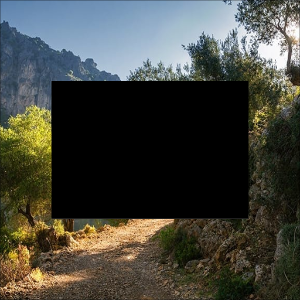
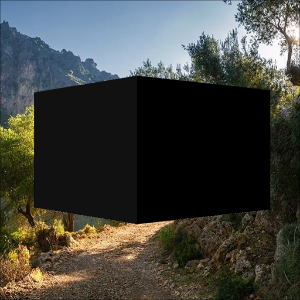
keep going

diff --git a/robotaugen/augmentation/a5.py b/robotaugen/augmentation/a5.py
@@ -89,17 +89,47 @@ def write_to_file(render_window):
     writer.SetInputConnection(window_filter.GetOutputPort())
     writer.Write()
 
+def get_transformed_edge_points(transform):
+    data_filter = vtk.vtkTransformPolyDataFilter()
+    points = vtk.vtkPoints()
+    edge_points = [
+        (-75.0, 105.0, -75.0),
+        (-75.0, 105.0, 75.0),
+        (75.0, 105.0, 75.0),
+        (75.0, 105.0, -75.0),
+        (-75.0, 0.0, -75.0),
+        (-75.0, 0.0, 75.0),
+        (75.0, 0.0, -75.0),
+        (75.0, 0.0, 75.0)]
+    for edge_point in edge_points:
+        points.InsertNextPoint(edge_point[0], edge_point[1], edge_point[2])
+    polyPtsVTP = vtk.vtkPolyData()
+    polyPtsVTP.SetPoints(points)
+    data_filter.SetInputData(polyPtsVTP)
+    data_filter.SetTransform(transform)
+    data_filter.Update()
+    output = data_filter.GetOutput()
+    points = []
+    for id in range(output.GetNumberOfPoints()):
+        p = output.GetPoint(id)
+        points.append(p)
+    return points
+    
 def main(argv):
     image_actor, origin, spacing, extent = get_background(argv[1])
     background_renderer = get_background_renderer()
     model_actor, bounds = get_model_3d_renderer()
     xmin, xmax, ymin, ymax, zmin, zmax = bounds
 
-    #model_actor.RotateY(45)
     transform = vtk.vtkTransform()
     transform.PostMultiply()
+    #transform.RotateX(20)
+    transform.RotateY(40)
+    #transform.RotateZ(90)
     transform.Translate(0.0, (ymin - ymax) / 2 , -500.0)
     model_actor.SetUserTransform(transform)
+    
+    points = get_transformed_edge_points(transform)
 
     light = get_light()
     camera = vtk.vtkCamera()
@@ -110,9 +140,9 @@ def main(argv):
     camera.ParallelProjectionOff()
     set_camera_parameters(camera, origin, extent, spacing)
     render_window.Render()
-    render_window_interactor = vtk.vtkRenderWindowInteractor()
-    render_window_interactor.SetRenderWindow(render_window)
-    render_window_interactor.Start()
+    #render_window_interactor = vtk.vtkRenderWindowInteractor()
+    #render_window_interactor.SetRenderWindow(render_window)
+    #render_window_interactor.Start()
     write_to_file(render_window)
     
 

diff --git a/robotaugen/augmentation/a6.py b/robotaugen/augmentation/a6.py
@@ -1,0 +1,66 @@
+import vtk
+ 
+# create two cones, rotate one of them.
+ 
+# create a rendering window and renderer
+ren = vtk.vtkRenderer()
+renWin = vtk.vtkRenderWindow()
+renWin.AddRenderer(ren)
+WIDTH=640
+HEIGHT=480
+renWin.SetSize(WIDTH,HEIGHT)
+ 
+# create a renderwindowinteractor
+iren = vtk.vtkRenderWindowInteractor()
+iren.SetRenderWindow(renWin)
+ 
+# create cone
+source = vtk.vtkConeSource()
+source.SetResolution(60)
+source.SetCenter(-2,0,0)
+ 
+# create a transform that rotates the cone
+transform = vtk.vtkTransform()
+transform.RotateWXYZ(45,0,1,0)
+transformFilter=vtk.vtkTransformPolyDataFilter()
+transformFilter.SetTransform(transform)
+transformFilter.SetInputConnection(source.GetOutputPort())
+transformFilter.Update()
+ 
+# mapper for original cone
+coneMapper1 = vtk.vtkPolyDataMapper()
+if vtk.VTK_MAJOR_VERSION <= 5:
+    coneMapper1.SetInput(source.GetOutput())
+else:
+    coneMapper1.SetInputConnection(source.GetOutputPort())
+    
+ 
+# another mapper for the rotated cone
+coneMapper2 = vtk.vtkPolyDataMapper()
+if vtk.VTK_MAJOR_VERSION <= 5:
+    coneMapper2.SetInput(transformFilter.GetOutput())
+else:
+    coneMapper2.SetInputConnection(transformFilter.GetOutputPort())
+ 
+# actor for original cone
+actor1 = vtk.vtkActor()
+actor1.SetMapper(coneMapper1)
+ 
+# actor for rotated cone
+actor2 = vtk.vtkActor()
+actor2.SetMapper(coneMapper2)
+ 
+ 
+# color the original cone red
+actor1.GetProperty().SetColor(1,0,0) # (R,G,B)
+# color rotated cone blue
+actor2.GetProperty().SetColor(0,0,1) # (R,G,B)
+ 
+# assign actor to the renderer
+ren.AddActor(actor1)
+ren.AddActor(actor2)
+ 
+# enable user interface interactor
+iren.Initialize()
+renWin.Render()
+iren.Start()
